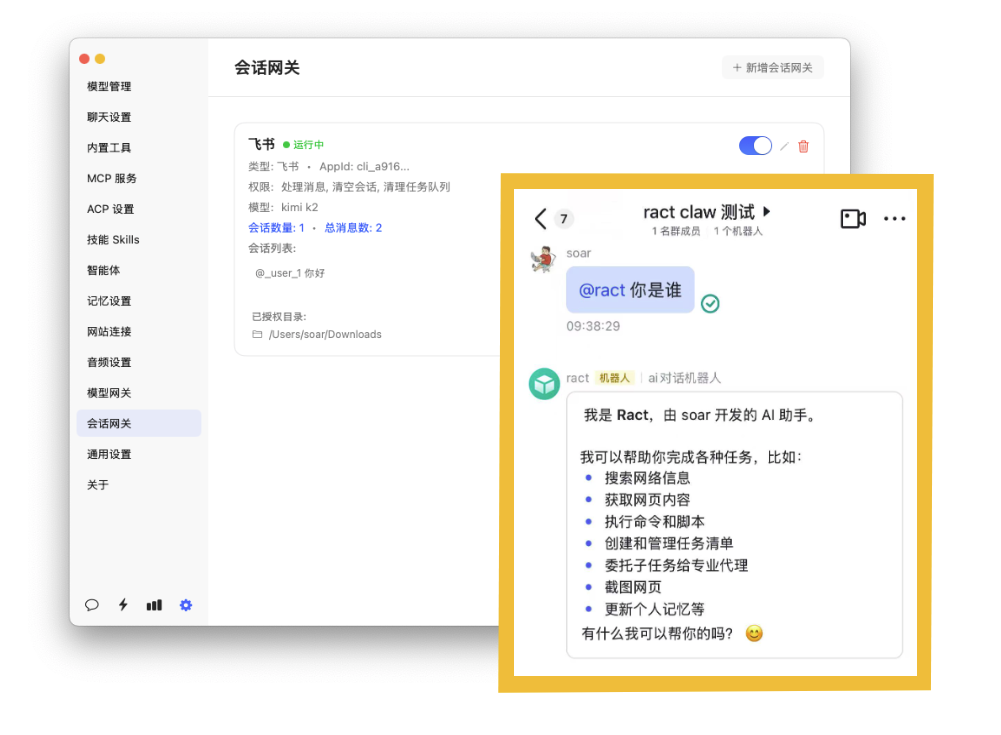
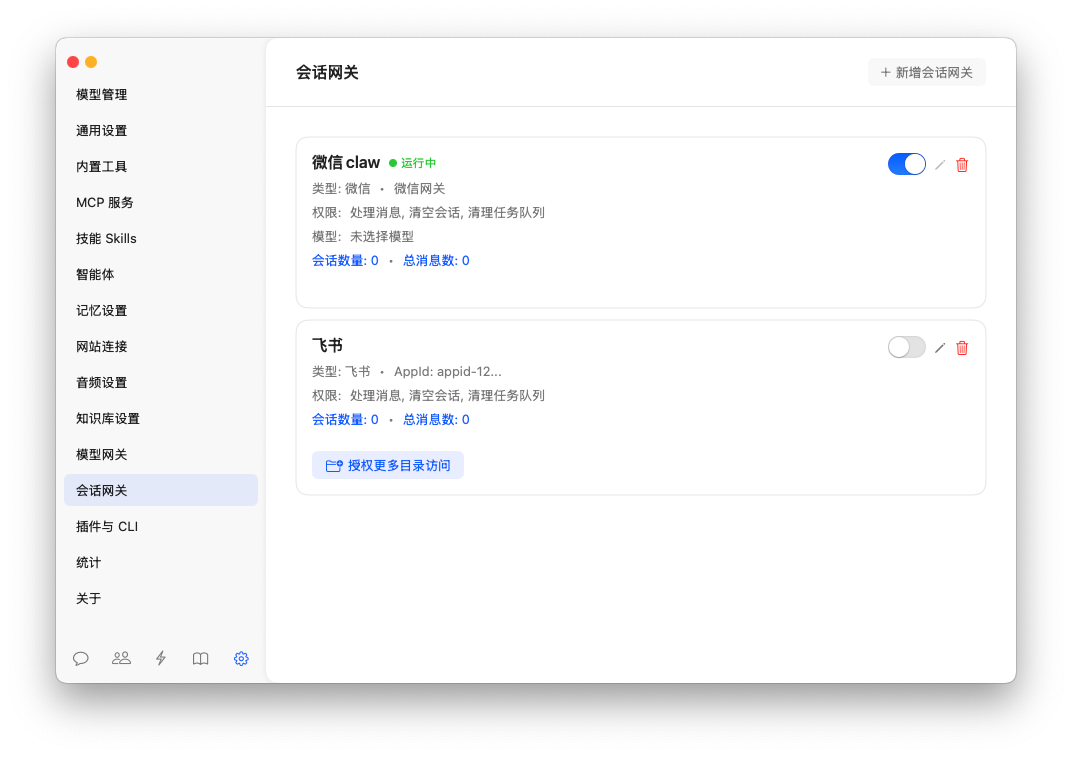
fix: optimise home

diff --git a/index.html b/index.html
@@ -15,23 +15,20 @@
 
         html {
             scroll-behavior: smooth;
+            background: rgb(250, 247, 242);
         }
 
         body {
             font-family: -apple-system, BlinkMacSystemFont, 'Segoe UI', 'Roboto', 'Oxygen', 'Ubuntu', 'Cantarell', sans-serif;
             line-height: 1.6;
             color: #333;
-            background: #ffffff;
         }
 
         /* Header */
         header {
-            position: fixed;
             top: 0;
             left: 0;
             right: 0;
-            background: rgba(255, 255, 255, 0.98);
-            box-shadow: 0 2px 10px rgba(0, 0, 0, 0.1);
             z-index: 1000;
             padding: 20px 0;
         }
@@ -62,11 +59,11 @@
         }
 
         nav a {
-            color: #4a4a4a;
+            color: #6b7280;
             text-decoration: none;
             font-weight: 500;
             transition: color 0.3s ease;
-            font-size: 1rem;
+            font-size: 14px;
         }
 
         nav a:hover {
@@ -74,23 +71,23 @@
         }
 
         .lang-toggle {
-            padding: 8px 16px;
-            background: #f5f5f5;
-            border: 1px solid #e0e0e0;
-            border-radius: 6px;
-            cursor: pointer;
-            transition: all 0.3s ease;
+            color: #6b7280;
+            text-decoration: none;
             font-weight: 500;
-            color: #333;
+            transition: color 0.3s ease;
+            font-size: 14px;
+            border: none;
+            background: none;
+            cursor: pointer;
         }
 
         .lang-toggle:hover {
-            background: #e8e8e8;
+            color: #1a1a1a;
         }
 
         /* Hero Section */
         .hero {
-            padding: 140px 40px 80px;
+            padding: 100px 40px 80px;
             max-width: 1200px;
             margin: 0 auto;
             display: block;
@@ -98,11 +95,11 @@
         }
 
         .hero-content h1 {
-            font-size: 3.5rem;
+            font-size: 42px;
             font-weight: 800;
             color: #1a1a1a;
             margin-bottom: 20px;
-            line-height: 1.2;
+            line-height: 2;
             text-align: center;
         }
 
@@ -114,8 +111,8 @@
         }
 
         .hero-content p {
-            font-size: 1.2rem;
-            color: #666;
+            font-size: 15px;
+            color: #6b7280;
             margin-bottom: 30px;
             line-height: 1.8;
             text-align: center;
@@ -190,11 +187,11 @@
         .btn-secondary {
             background: #ffffff;
             color: #1a1a1a;
-            border: 2px solid #e0e0e0;
+            box-shadow: 0 0 3px #e6e6e6;
         }
 
         .btn-secondary:hover {
-            border-color: #999;
+            box-shadow: 0 0 3px #818181;
             background: #f5f5f5;
         }
 
@@ -295,7 +292,9 @@
         }
 
         .feature-item:nth-child(2n +1) {
-            background-color: #f0f8ff;
+            background: #9e887a url('./hstatic/itembg.jpg') center/cover no-repeat;
+            color: #fff;
+            text-shadow: 0 2px 8px rgba(0, 0, 0, 0.5);
         }
 
         .feature-item:nth-child(odd) .feature-content {
@@ -347,6 +346,7 @@
 
         footer a {
             color: #333;
+            text-decoration: none;
         }
 
         footer p {
@@ -469,7 +469,7 @@
             <div class="hero-buttons">
                 <a href="https://ractai.com/dist/ract-latest.dmg" class="btn btn-primary" id="mainDownloadBtn" target="_blank">
                     <span class="lang-en">Free Download </span>
-                    <span class="lang-zh">免费下载使用 ( Mac 版 )</span>
+                    <span class="lang-zh">完全免费使用，下载 Mac 版</span>
                 </a>
                 <a href="https://github.com/echosoar/ractai/issues" class="btn btn-secondary" target="_blank">
                     <span class="lang-en">Issue Feedback</span>
@@ -479,7 +479,7 @@
             <div class="download-info">
                 <span class="version-info" id="versionInfo" style="display: none;"></span>
             </div>
-            <div class="more-desc">使用 Swift 开发，极小内存占用和极小包体积（7 MB）</div>
+            <div class="more-desc"></div>
         </div>
         <div class="hero-visual">
             <img class="main-img" src="./hstatic/header3.png" />
@@ -493,8 +493,8 @@
         <div class="feature-item">
             <div class="feature-content">
                 <h3>
-                    <span class="lang-en">1. SubAgent</span>
-                    <span class="lang-zh">一、SubAgent 与智能体</span>
+                    <span class="lang-en">SubAgent</span>
+                    <span class="lang-zh">SubAgent 与智能体</span>
                 </h3>
                 <p>
                     <span class="lang-en"></span>
@@ -509,12 +509,12 @@
          <div class="feature-item">
             <div class="feature-content">
                 <h3>
-                    <span class="lang-en">2. Conversation Gateway</span>
-                    <span class="lang-zh">二、会话网关</span>
+                    <span class="lang-en">Conversation Gateway</span>
+                    <span class="lang-zh">会话网关</span>
                 </h3>
                 <p>
                     <span class="lang-en">The Session Gateway provides the ability to expose Ract's AI capabilities to other applications, similar to OpenClaw. It can integrate Ract into third-party applications such as Lark, allowing you to remotely control Ract on other devices to complete tasks via IM software.</span>
-                    <span class="lang-zh">会话网关提供了将 Ract 的 AI 能力暴露给其他应用的能力，类似于 OpenClaw，可以在飞书、微信等第三方应用中集成 Ract，让你可以远程通过 IM 软件控制其他设备上的 Ract 完成任务。</span>
+                    <span class="lang-zh">将 Ract 的 AI 能力暴露给其他应用，类似于 OpenClaw，可在飞书、微信等第三方应用中集成 Ract，支持远程通过 IM 软件控制其他设备上的 Ract 完成任务。</span>
                 </p>
             </div>
             <div class="feature-visual">
@@ -526,8 +526,8 @@
         <div class="feature-item">
             <div class="feature-content">
                 <h3>
-                    <span class="lang-en">3. Video and Image Generation</span>
-                    <span class="lang-zh">三、视频和图像生成</span>
+                    <span class="lang-en">Video and Image Generation</span>
+                    <span class="lang-zh">视频和图像生成</span>
                 </h3>
                 <p>
                     <span class="lang-en">Supports video generation models like Seedance and image generation models like NanoBanana 2.</span>
@@ -544,8 +544,8 @@
         <div class="feature-item">
             <div class="feature-content">
                 <h3>
-                    <span class="lang-en">4. Group Chat</span>
-                    <span class="lang-zh">四、群聊</span>
+                    <span class="lang-en">Group Chat</span>
+                    <span class="lang-zh">群聊</span>
                 </h3>
                 <p>
                     <span class="lang-en">
@@ -567,8 +567,8 @@ You can pull multiple AI agents with different roles and identities into a group
         <div class="feature-item">
             <div class="feature-content">
                 <h3>
-                    <span class="lang-en">5. Action Automation</span>
-                    <span class="lang-zh">五、动作自动化</span>
+                    <span class="lang-en">Action Automation</span>
+                    <span class="lang-zh">动作自动化</span>
                 </h3>
                 <p>
                     <span class="lang-en">Save the chat process as reusable actions. Add triggers such as schedules to enable fully automated execution. Turn conversations into powerful workflows.</span>
@@ -587,12 +587,12 @@ You can pull multiple AI agents with different roles and identities into a group
          <div class="feature-item">
             <div class="feature-content">
                 <h3>
-                    <span class="lang-en">6. Memory System</span>
-                    <span class="lang-zh">六、记忆系统</span>
+                    <span class="lang-en">Memory System</span>
+                    <span class="lang-zh">记忆系统</span>
                 </h3>
                 <p>
                     <span class="lang-en">During conversations, Ract automatically selects and retrieves global memories and items from your memory bank, associating the most relevant memories with your questions so the AI becomes a personal assistant that understands you.</span>
-                    <span class="lang-zh">在对话过程中 Ract 会自动选择和检索全局记忆和记忆库，为你的问题关联最匹配的记忆，让 AI 成为懂你的私人助手。</span>
+                    <span class="lang-zh">在对话过程中 Ract 会自动选择、检索记忆库，为问题关联最匹配的记忆，让 AI 成为懂你的私人助手。</span>
                 </p>
             </div>
             <div class="feature-visual">
@@ -604,8 +604,8 @@ You can pull multiple AI agents with different roles and identities into a group
         <div class="feature-item">
             <div class="feature-content">
                 <h3>
-                    <span class="lang-en">7. Skills</span>
-                    <span class="lang-zh">七、技能</span>
+                    <span class="lang-en">Skills</span>
+                    <span class="lang-zh">技能</span>
                 </h3>
                 <p>
                     <span class="lang-en">Support one-click installation of various Skills to extend Ract's functionality.</span>
@@ -622,8 +622,8 @@ You can pull multiple AI agents with different roles and identities into a group
         <div class="feature-item">
             <div class="feature-content">
                 <h3>
-                    <span class="lang-en">8. MCP Support</span>
-                    <span class="lang-zh">八、MCP 支持</span>
+                    <span class="lang-en">MCP Support</span>
+                    <span class="lang-zh">MCP 支持</span>
                 </h3>
                 <p>
                     <span class="lang-en">Supports MCP protocol, integrating various tools and services to enhance automation capabilities and productivity.</span>
@@ -635,31 +635,17 @@ You can pull multiple AI agents with different roles and identities into a group
             </div>
         </div>
 
-         <div class="feature-item">
-            <div class="feature-content">
-                <h3>
-                    <span class="lang-en">9. Multi-Model Support</span>
-                    <span class="lang-zh">九、多模型提供商</span>
-                </h3>
-                <p>
-                    <span class="lang-en">Connect to multiple AI model providers. Seamlessly add and switch between models for multi-turn conversations. Choose the best-suited model for each task to get the optimal response.</span>
-                    <span class="lang-zh">支持连接多种 AI 模型提供商。无缝添加和切换不同模型进行多轮对话。为每个任务选择最合适的模型，获得最佳响应。</span>
-                </p>
-            </div>
-            <div class="feature-visual">
-                <img src="./hstatic/model.png" />
-            </div>
-        </div>
+         
 
          <div class="feature-item">
             <div class="feature-content">
                 <h3>
-                    <span class="lang-en">10. Built-in Tools</span>
-                    <span class="lang-zh">十、内置工具集</span>
+                    <span class="lang-en">Built-in Tools</span>
+                    <span class="lang-zh">内置工具集</span>
                 </h3>
                 <p>
                     <span class="lang-en">A rich toolkit including web search, webpage reading, system notifications, file read/write, and file retrieval — everything needed for productivity, built in.</span>
-                    <span class="lang-zh">丰富的工具集，包括网络搜索、网页内容读取、系统通知提示、文件读写、文件检索等。提高生产力所需的一切，全部内置。</span>
+                    <span class="lang-zh">丰富的工具集，包括网络搜索、网页内容读取、系统通知提示、文件读写、文件检索等。<br />提高生产力所需的一切，全部内置。</span>
                 </p>
             </div>
             <div class="feature-visual">
@@ -670,8 +656,8 @@ You can pull multiple AI agents with different roles and identities into a group
         <div class="feature-item">
             <div class="feature-content">
                 <h3>
-                    <span class="lang-en">11. TTS</span>
-                    <span class="lang-zh">十一、TTS</span>
+                    <span class="lang-en">TTS</span>
+                    <span class="lang-zh">TTS 语音合成</span>
                 </h3>
                 <p>
                     <span class="lang-en">Convert AI-generated text into speech for playback, supporting multiple voices and language options.<br /></span>
@@ -685,30 +671,11 @@ You can pull multiple AI agents with different roles and identities into a group
             </div>
         </div>
 
-
-         <div class="feature-item">
-            <div class="feature-content">
-                <h3>
-                    <span class="lang-en">12. Multi-model, multimodal</span>
-                    <span class="lang-zh">十二、多模型、多模态</span>
-                </h3>
-                <p>
-                    <span class="lang-en">Switch between different models within a single conversation, with multimodal inputs including text, images, and files.</span>
-                    <span class="lang-zh">在一次对话中任意切换不同的模型，提供文字、图像、文件等类型的多模态输入能力。</span>
-                </p>
-            </div>
-            <div class="feature-visual">
-                <img src="./hstatic/img.jpg" />
-            </div>
-        </div>
-       
-
-
         <div class="feature-item">
             <div class="feature-content">
                 <h3>
-                    <span class="lang-en">13. Website Integration</span>
-                    <span class="lang-zh">十三、网站连接</span>
+                    <span class="lang-en">Website Integration</span>
+                    <span class="lang-zh">网站连接</span>
                 </h3>
                 <p>
                     <span class="lang-en">Connect to multiple websites and stay logged in. Browse pages and summarize social media updates under your authenticated identity.<br />Your login information is stored locally to ensure privacy and security.</span>
@@ -722,13 +689,12 @@ You can pull multiple AI agents with different roles and identities into a group
                 <img src="./hstatic/conn.png" />
             </div>
         </div>
-       
 
         <div class="feature-item">
             <div class="feature-content">
                 <h3>
-                    <span class="lang-en">14. Usage Analytics</span>
-                    <span class="lang-zh">十四、统计分析</span>
+                    <span class="lang-en">Usage Analytics</span>
+                    <span class="lang-zh">统计分析</span>
                 </h3>
                 <p>
                     <span class="lang-en">View comprehensive statistics by day, week, month, and year. Track model consumption, conversation rounds, and tool calls to understand your AI interaction patterns.</span>
@@ -743,8 +709,8 @@ You can pull multiple AI agents with different roles and identities into a group
 
     <!-- Footer -->
     <footer>
-        <p>&copy; <span id="year"></span> Ract. <span class="lang-en">Powered with love by <a href="https://github.com/echosoar">echosoar</a></span><span class="lang-zh">由 <a href="https://github.com/echosoar">echosoar</a> 用爱发电</span></p>
-        <p>其他作品：<a href="https://toolight.cn" target="_blank">偷懒工具</a>、<a href="https://echosoar.github.io/weekly/"  target="_blank">偷懒爱好者周刊</a>、<a href="https://aiznb.com"  target="_blank">AI 真牛逼</a>、<a href="https://1htr.cn"  target="_blank">百万排行榜</a></p>
+        <p>&copy; <span id="year"></span> Ract. <span class="lang-en">Powered with love by <a href="https://github.com/echosoar">codersoar</a></span><span class="lang-zh">由 <a href="https://github.com/echosoar">codersoar</a> 用爱发电</span></p>
+        <p><a href="https://toolight.cn" target="_blank">偷懒工具</a>、<a href="https://echosoar.github.io/weekly/"  target="_blank">偷懒爱好者周刊</a>、<a href="https://aiznb.com"  target="_blank">AI 真牛逼</a>、<a href="https://1htr.cn"  target="_blank">百万排行榜</a></p>
     </footer>
 
     <script>